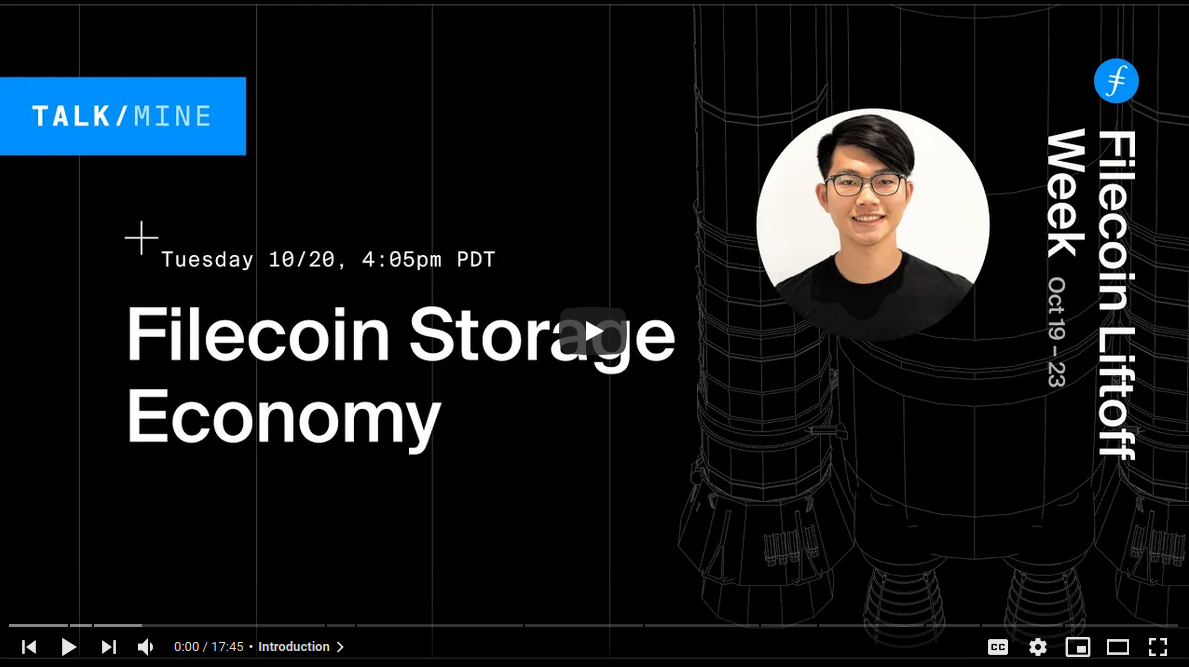
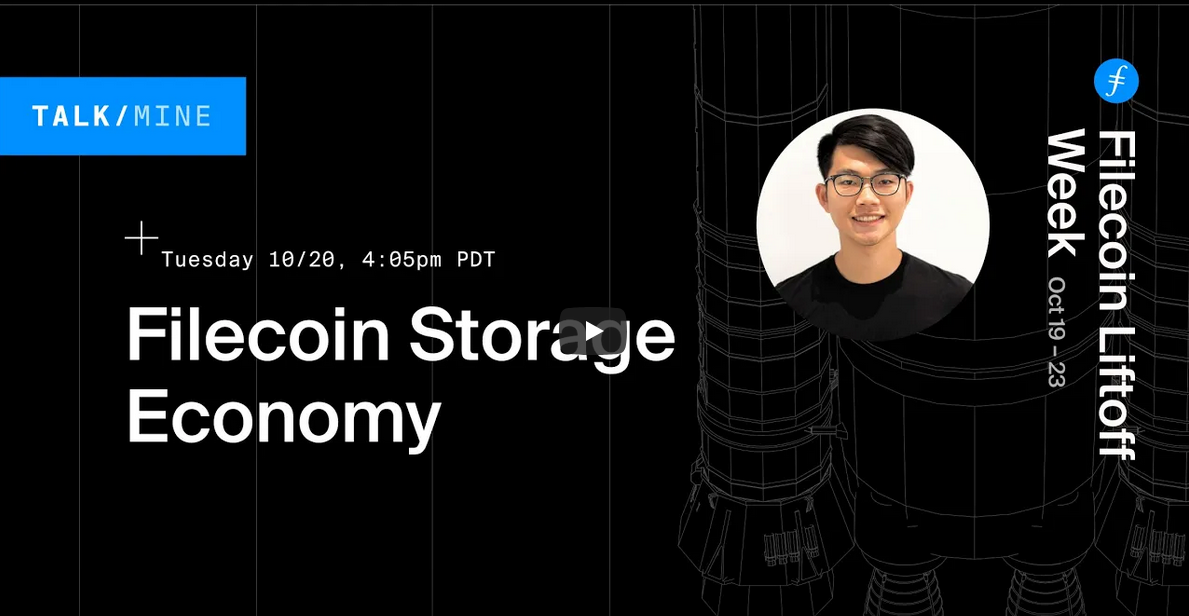
update featured images

diff --git a/content/talks/liftoff-zx/index.md b/content/talks/liftoff-zx/index.md
@@ -4,35 +4,35 @@ title: "The Filecoin Storage Economy"
 
 # Website post date
 # format YYYY-MM-DD
-date: 2014-07-14
+date: 2020-10-22
 
 # Publish from this date (defaults to date)
 # publishDate: 2019-09-03
 
 # Venue name
-venue:
+venue: Filecoin Liftoff Week
 
 # Venue link
 venue_url:
 
 # Venue date (defaults to date)
 # format YYYY-MM-DD
-venue_date:
+venue_date: 2020-10-22
 
 # Venue location
 venue_location:
 
 # For PL authors, use author folder name; for non-PL authors, write name as in paper within ""
 authors:
-  -
+  - zixuan-zhang
 
 # Zero or more of the areas in content/areas
 areas:
-  -
+  - cryptoeconomics
 
 # Zero or more of the groups in content/groups (should match author membership)
 groups:
-  -
+  - cryptoeconlab
 
 # Name the cover image featured.jpg
 resources:
@@ -41,11 +41,9 @@ resources:
 
 # Short abstract
 # Describe talk here
-abstract:    
+abstract:  "CryptoEconLab research scientist ZX  discusses the mechanisms and models presented in the recent Engineering Filecoin's Economy report." 
+
 ---
 
-{{< image "featured.png" >}}
 
-or
-
-{{< youtube C2jz9pfwh7Q >}}
+{{< youtube YRb48IoxDFw >}}

diff --git a/content/talks/storagemarket-zx01/index.md b/content/talks/storagemarket-zx01/index.md
@@ -4,35 +4,36 @@ title: "Filecoin  Circulating Supply"
 
 # Website post date
 # format YYYY-MM-DD
-date: 2014-07-14
+date: 2020-12-17
 
 # Publish from this date (defaults to date)
 # publishDate: 2019-09-03
 
 # Venue name
-venue:
+venue: Storage Markets Summit 
 
 # Venue link
 venue_url:
 
 # Venue date (defaults to date)
 # format YYYY-MM-DD
-venue_date:
+venue_date: 2020-12-17
 
 # Venue location
 venue_location:
 
 # For PL authors, use author folder name; for non-PL authors, write name as in paper within ""
 authors:
-  -
+  - "Colin Evran"
+  - zixuan zhang
 
 # Zero or more of the areas in content/areas
 areas:
-  -
+  - cryptoeconomics
 
 # Zero or more of the groups in content/groups (should match author membership)
 groups:
-  -
+  - cryptoeconlab
 
 # Name the cover image featured.jpg
 resources:
@@ -41,11 +42,8 @@ resources:
 
 # Short abstract
 # Describe talk here
-abstract:    
+abstract:   "Colin Evran and Zixuan Zhange discuss  a model of Filecoin circulating supply. "
 ---
 
-{{< image "featured.png" >}}
 
-or
-
-{{< youtube C2jz9pfwh7Q >}}
+{{< youtube O0SHgksn1AI >}}

diff --git a/content/talks/storagemarket-zx02/index.md b/content/talks/storagemarket-zx02/index.md
@@ -4,35 +4,35 @@ title: "Filecoin Economy Deep Dive"
 
 # Website post date
 # format YYYY-MM-DD
-date: 2014-07-14
+date: 2020-12-17
 
 # Publish from this date (defaults to date)
 # publishDate: 2019-09-03
 
 # Venue name
-venue:
+venue: Storage Markets Summit 
 
 # Venue link
 venue_url:
 
 # Venue date (defaults to date)
 # format YYYY-MM-DD
-venue_date:
+venue_date: 2020-12-17
 
 # Venue location
 venue_location:
 
 # For PL authors, use author folder name; for non-PL authors, write name as in paper within ""
 authors:
-  -
+  - zixuan-zhang
 
 # Zero or more of the areas in content/areas
 areas:
-  -
+  - cryptoeconomics
 
 # Zero or more of the groups in content/groups (should match author membership)
 groups:
-  -
+  - cryptoeconlab
 
 # Name the cover image featured.jpg
 resources:
@@ -41,11 +41,8 @@ resources:
 
 # Short abstract
 # Describe talk here
-abstract:    
+abstract:  "CryptoEconLab researcher ZX leads viewers on a deep dive into the Filecoin economy."  
 ---
 
-{{< image "featured.png" >}}
 
-or
-
-{{< youtube C2jz9pfwh7Q >}}
+{{< youtube MbLyVt2rISQ >}}
